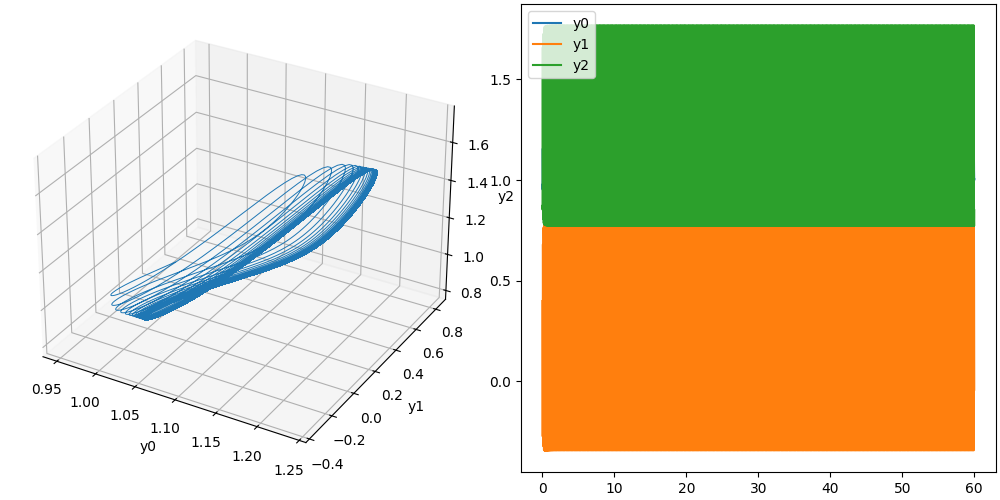
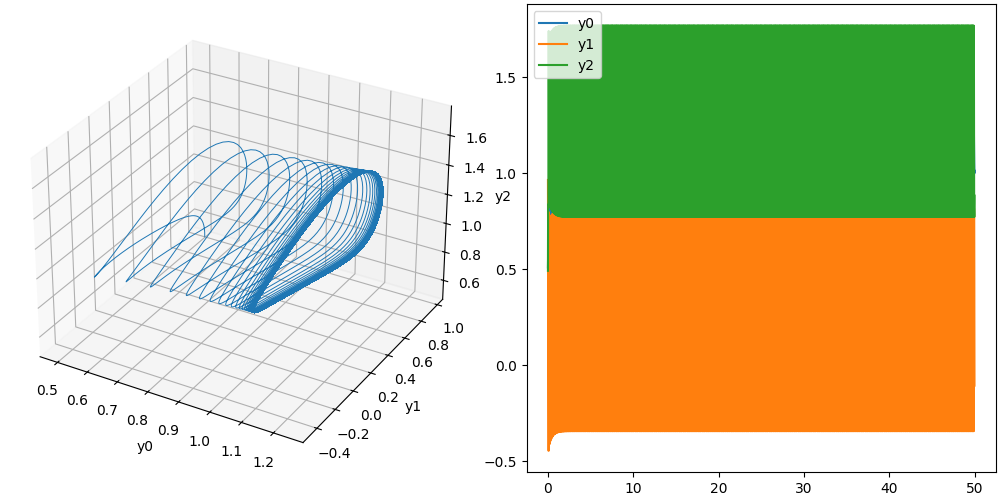
add Lyapunov exponent:

diff --git a/Lyapunov1.py b/Lyapunov1.py
@@ -393,6 +393,11 @@ class Lyapunov:
         lyaps = self.LE(f, self.initial_condition, t_span)
         ky = self.KD(np.mean(lyaps[max(0, 1000):, :], axis=0))
         t_eval, y_result = self.plot_trajectory(f, self.initial_condition, (self.t_i, self.t_f), self.dt)
+        for i in range(number_time_series):
+            lyap = np.average(lyaps[1000:,i])
+            stderr = sem(lyaps[1000:,i])
+            print("%i. Lyapunov exponent: % .4f ± %.4f" % (i+1,lyap,stderr))
+
         return {"t": t_eval, "y": y_result, "lyaps": lyaps, "ky": ky}
 
     def data_methods(self, alpha: NDArray, A: NDArray, C: NDArray, E: NDArray):
@@ -404,6 +409,10 @@ class Lyapunov:
         lyaps = self.LE(f, self.initial_condition, t_span)
         ky = self.KD(np.mean(lyaps[max(0, 1000):, :], axis=0))
         t_eval, y_result = self.plot_trajectory(f, self.initial_condition, (self.t_i, self.t_f), self.dt)
+        for i in range(len(self.initial_condition)):
+            lyap = np.average(lyaps[1000:,i])
+            stderr = sem(lyaps[1000:,i])
+            print("%i. Lyapunov exponent: % .4f ± %.4f" % (i+1,lyap,stderr))
         return {"t": t_eval, "y": y_result, "lyaps": lyaps, "ky": ky}
 
     def output_hints_method(self, df_array: NDArray):
@@ -425,4 +434,8 @@ class Lyapunov:
         lyaps = self.LE(f, self.initial_condition, t_span)
         ky = self.KD(np.mean(lyaps[max(0, 1000):, :], axis=0))
         t_eval, y_result, = self.plot_trajectory(f, self.initial_condition, (self.t_i, self.t_f), self.dt)
+        for i in range(number_time_series):
+            lyap = np.average(lyaps[1000:,i])
+            stderr = sem(lyaps[1000:,i])
+            print("%i. Lyapunov exponent: % .4f ± %.4f" % (i+1,lyap,stderr))
         return {"t": t_eval, "y": y_result, "lyaps": lyaps, "ky": ky}

diff --git a/test.py b/test.py
@@ -8,13 +8,13 @@ file = np.array(pd.read_csv("UPO.csv").iloc[:,1:])
 df_array = np.array(file)
 
 
-L = Lyapunov(start_time=0.0001, end_time=60, dt=0.001,initial_condition=initial_conditions)
+L = Lyapunov(start_time=0.0001, end_time=50, dt=0.001,initial_condition=initial_conditions)
 result = L.output_hints_method(file)
-print(result["t"])
-print("\n -------------------------- \n")
-print(result["y"])
+# print(result["t"])
+# print("\n -------------------------- \n")
+# print(result["y"])
 print("\n -------------------------- \n")
 print(result["lyaps"])
-print("\n -------------------------- \n")
-print(result["ky"])
-print("\n -------------------------- \n")
+# print("\n -------------------------- \n")
+# print(result["ky"])
+# print("\n -------------------------- \n")
